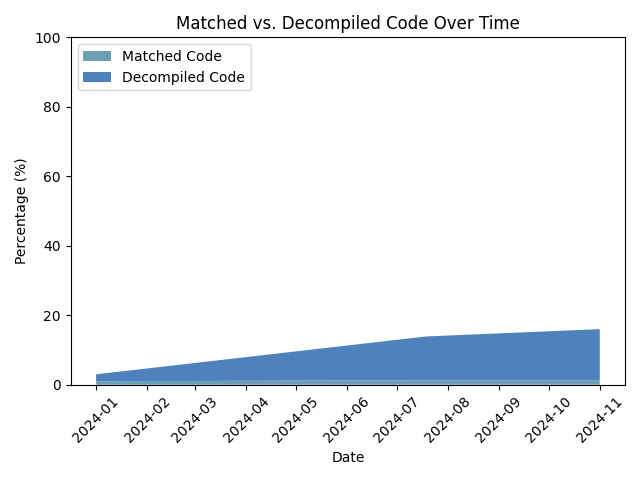
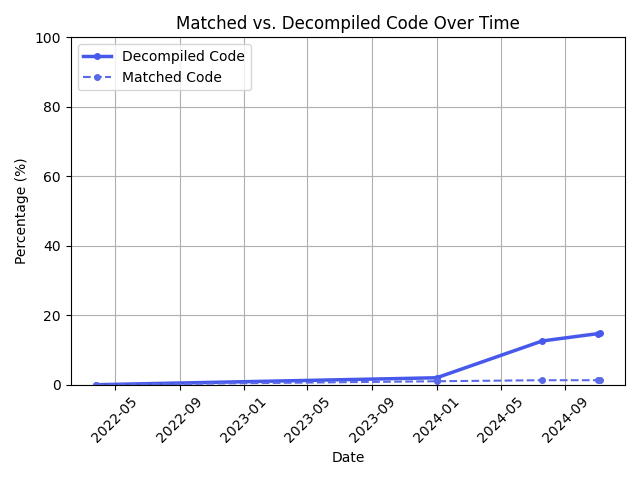
Update progress

diff --git a/scripts/generate-chart.py b/scripts/generate-chart.py
@@ -1,17 +1,19 @@
 import matplotlib.pyplot as plt
-from datetime import datetime, timedelta
+from datetime import datetime
 
-
-dates = [datetime(2024, 1, 1), datetime(2024, 7, 19), datetime(2024, 11, 1),]
-matched_code = [2.0, 12.6, 14.7,]
-decompiled_code = [1.0, 1.3, 1.3,]
-
+dates = [datetime(2022, 3, 27), datetime(2024, 1, 1), datetime(2024, 7, 19), datetime(2024, 11, 1), datetime(2024, 11, 5)]
+decompiled_code = [
+    0.0, 2.0, 12.6, 14.7, 14.9
+]
+matched_code = [
+    0.0, 1.0, 1.3, 1.3, 1.3
+]
 
 fig, ax = plt.subplots()
-ax.stackplot(dates, decompiled_code, matched_code,
-             labels=['Matched Code', 'Decompiled Code'],
-             colors=['#6a9fb5', '#4f81bd'])
 
+# Using vibrant colors and highlighting Decompiled Code
+ax.plot(dates, decompiled_code, label='Decompiled Code', color='#4659eb', marker='.', markersize=8, linewidth=2.5)
+ax.plot(dates, matched_code, label='Matched Code', color='#5a6ae6', marker='.', markersize=8, linestyle='--', linewidth=1.5)
 
 ax.set_title("Matched vs. Decompiled Code Over Time")
 ax.set_xlabel("Date")
@@ -20,5 +22,7 @@ ax.legend(loc='upper left')
 plt.xticks(rotation=45)
 plt.tight_layout()
 plt.ylim([0, 100])
+plt.grid()
+
 
 plt.show()
